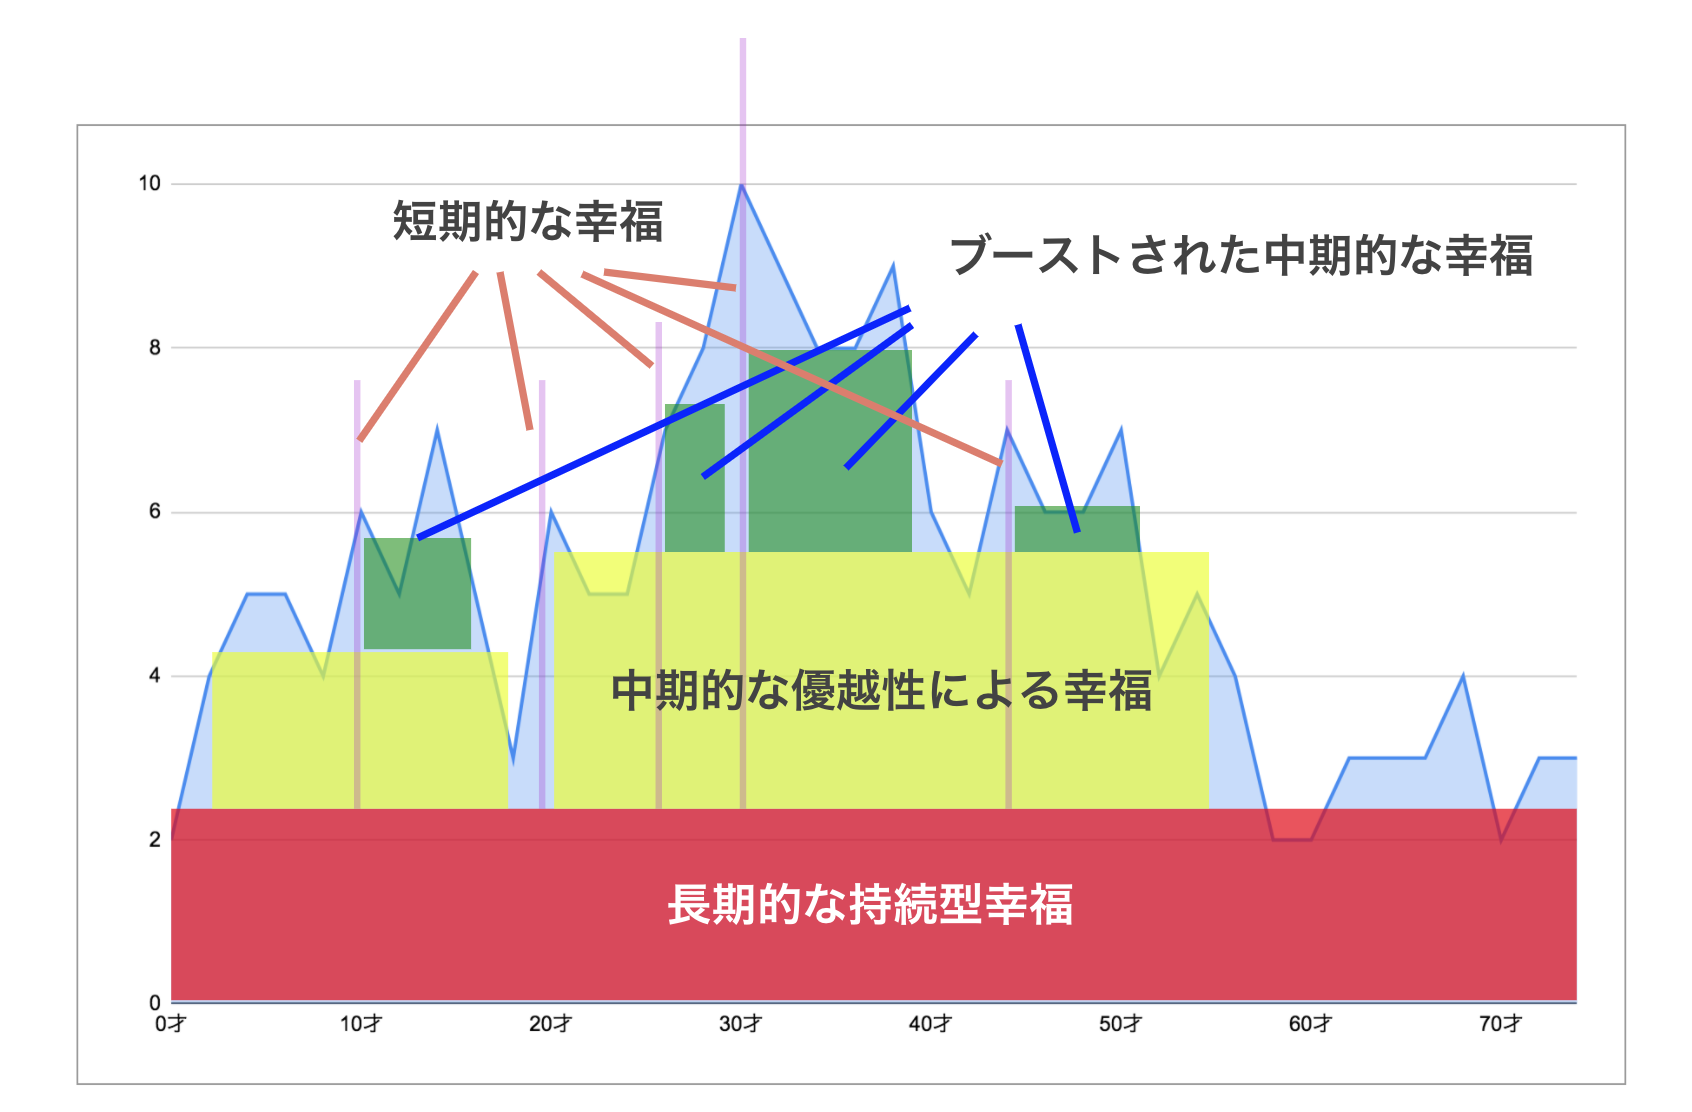
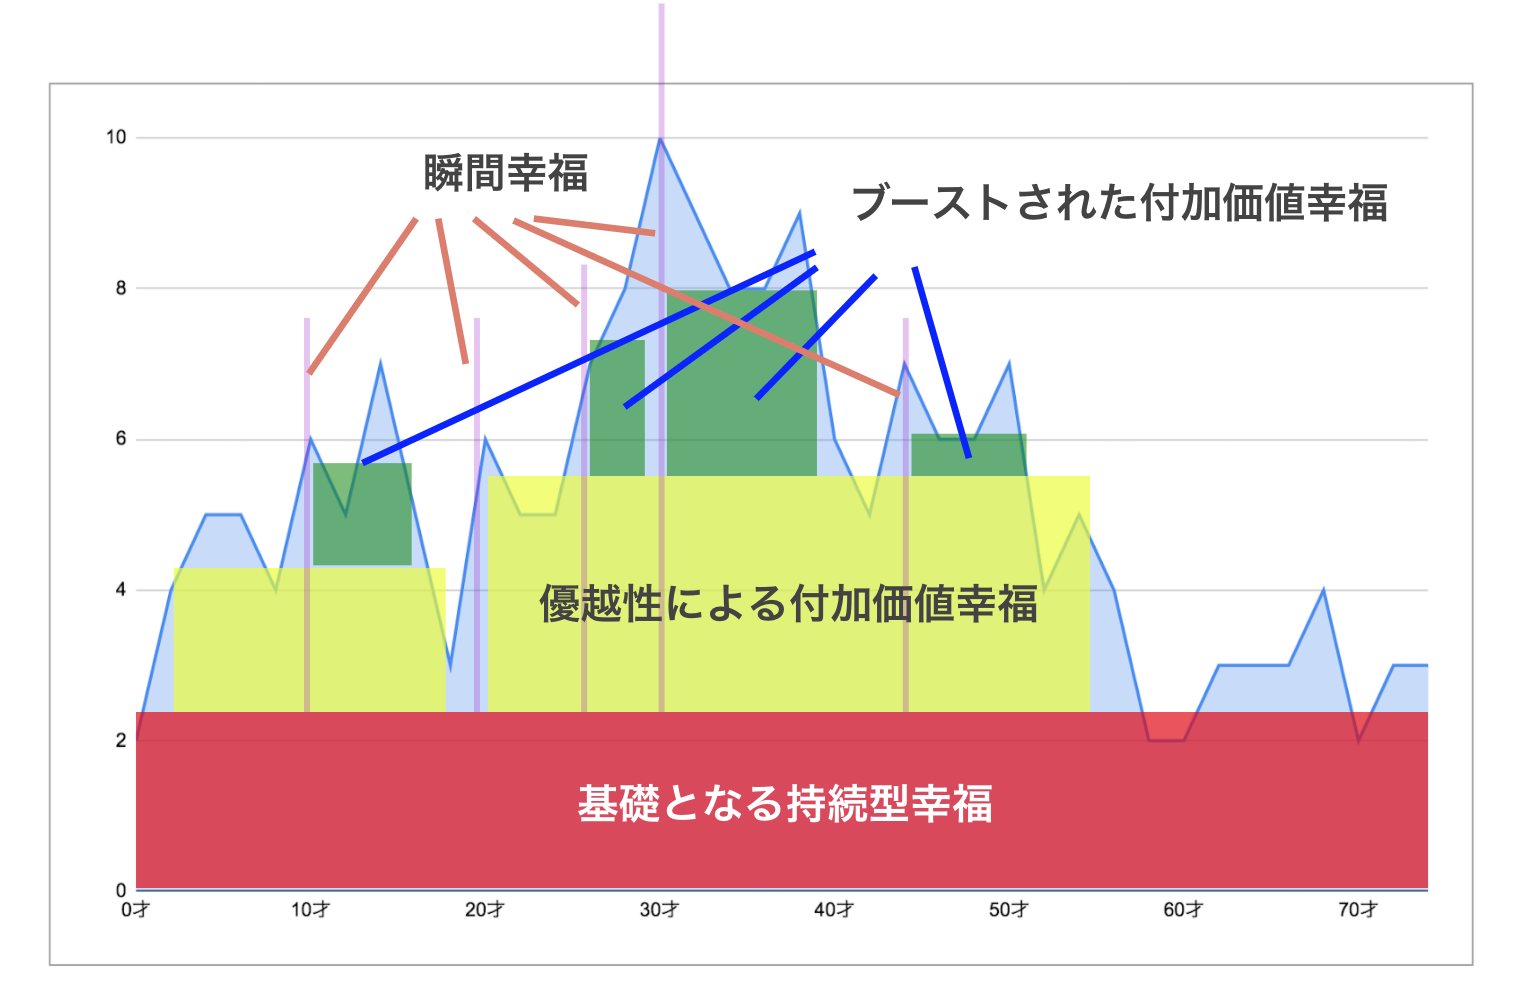
try

diff --git a/_drafts/2020-06-17-積分としての幸福の最大化.md b/_drafts/2020-06-17-積分としての幸福の最大化.md
@@ -9,38 +9,41 @@ categories: philosophy
 
 __積分としての幸福の最大化__
 
-追求すべき第一指標としての幸福さについては、[自己の幸福を第一に](/prophecy/2020/06/06/自己の幸福を第一に) の記事で記した通りですが、どのようにその幸福を最大化できるでしょうか？
+追求すべき第一指標としての幸福さについては、[自己の幸福を第一に](/prophecy/2020/06/06/自己の幸福を第一に) の記事で記しました。さて、それではどのようにその幸福を最大化できるでしょうか？
 
-幸福には瞬間的幸福と中期的幸福、そして長期的な幸福が存在します。それらは全て性質の異なるものですし、どれも人の幸福には不可欠なものです。大切なことはそれらが相互に作用しながら人生を通しての幸福度を最大化していくと言う事であり、どれか一つを追求して他を疎かにしてはいけないということです。
+幸福には**基礎幸福**と**付加価値幸福**、そして**瞬間幸福**が存在します。それらは全て性質の異なるものですし、どれも人の幸福には不可欠なものです。大切なことはそれらが相互に作用しながら人生を通しての幸福度を最大化していくと言う事であり、どれか一つを追求して他を疎かにはできません。
 
-幸福の最大化の意味とは瞬間的に多大な幸福度を得ることを意味していません。幸福の最大化とはあなたの生まれてから死ぬまでの間の幸福度を積分した総計を意味しています。そして、私はその幸福度の積分値を最大化することを目的に日々の小さな決断をしていくことを提案しています。
+幸福の最大化の意味とは瞬間的に多大な幸福度を得ることを意味していません。幸福の最大化とはあなたの生まれてから死ぬまでの間の幸福度を積分した総計を意味しています。そして、私はその幸福度の積分値を最大化することを目的に日々の小さな決断をしていくことを提案します。
 
 <img src="{{ '/img/posts/integral-happiness.png' | prepend: site.baseurl | replace: '//', '/' }}" width="100%" alt="生まれてから死ぬまでの幸福度推移">
 
-__基礎となる長期的な幸福__
+__幸福の土台となる基礎幸福__
 
-長期的な幸福度とは生活の基盤となる幸福度で、日々の衣食住の充実と健全な人間関係から培われます。
-目安となる指標は
+基礎幸福度とは生活の基盤となる幸福度で、日々の衣食住の充実と健全な人間関係から培われます。
+目安となる指標として
 
 1. 恒常的な不幸状態に陥っていない
 1. 日々の習慣に対しての納得感がある
 
-の２点に尽きると思います。
+の２点をあげます。
 
-「恒常的な不幸状態」というものは生存に直結した問題です。日本ではあまりないケースですが、世界的には現代においても未だに飢餓が蔓延していたり、中国ではネズミ族と呼ばれる地下住民が現れた時期もあり、満足に毎日の生活を送れないケースも稀ではありません。
-長期的な幸福とはそういった明日を生きる事に対する不安を払拭して安定的な毎日が健やかに行われる事で充足されます。
-ただ、現代の日本においては徐々に生活保護の増加や老後不安、老老介護、年金問題、核家族での子育て、保育園不足などの問題が蔓延しはじめており、この次元の不幸に足を突っ込みつつある状況と感じます。
+「恒常的な不幸状態」というものは生存に直結した問題です。日本ではあまりないケースですが、現代においても世界的には未だに飢餓が蔓延していたり、中国ではネズミ族と呼ばれる地下住民が現れた時期もあり、満足に毎日の生活を送れないケースも稀ではありません。
+不安状態が継続する環境では常に気を休める瞬間がなく、脳に強いストレスをかけます。
+基礎幸福とは、そういった明日を生きる事に対する不安を払拭して安定的な毎日が健やかに行われる事で充足されます。
 
-「日々の習慣に対しての納得感がある」というのは、自分の行動に対する周りの反応に一定の予測がたち、確かにそのような反応が期待できる場合に満たされます。人生をコントロールできている感覚と言い換えると良いかもしれません。何かが満たされると幸福になるという絶対的に評価による物はなく、重要なのは「**納得感**」になります。
-そこはかとない物であり実感する事が難しいかもしれませんが、実はこれが人生の全てのにおける土台となります。
-納得感は相対的評価から行われる物であり、１億総中流と言われた頃の日本では実は他の国に比べて高かったと言えます。
+「日々の習慣に対しての納得感がある」というのは、自分の行動に対する周りの反応に一定の予測がたち、確かな反応が期待できる場合に満たされます。人生をコントロールできている感覚と言い換えると良いかもしれません。何かが満たされると幸福になるという絶対的に評価による物はなく、重要なのは「**納得感**」になります。
+そこはかとない物であり実感する事が難しいかもしれませんが、これが人生の全てのにおける土台となります。
+
+納得感を蝕むのは
 
 * こんなに働いているのにまともに食べていけないのはおかしい
 * 自分だけが事故にあった
 * 努力していないのに自分より優れているあいつは許せない
 
-といった類の不満は長期的な幸福度を蝕む要因となります。
+といった類の不満で、生活の主要なコミュニティにおいてこの状況に陥入れば基礎幸福度を著しく下げる要因となります。
 
+納得感は相対的評価から行われる物であり、１億総中流と言われた頃の日本では他の国に比べて基礎幸福度が高かったと言えるかもしれません。
+ただ、現代の日本においては徐々に生活保護の増加や老後不安、老老介護、年金問題、核家族での子育て、保育園不足などの問題が蔓延しはじめており、この次元の不幸に足を踏み入れつつあると感じます。
 今の日本では１億総下流になりつつあり、昭和日本における「普通」を現代の一般的家庭が満たす事は現実的ではなくなっています。
 
 * 一戸建てを買う
@@ -49,25 +52,24 @@ __基礎となる長期的な幸福__
 * 預けずに子供を親の手で育てる（専業主婦）
 * 退職金と年金で老後を平穏に暮らす
 
-など、全部満たしている家庭は現代ではかなりの高所得であるか、優位な控除や役得がある公務員などの場合に限られます。
+など、現代において全てを満たしている家庭はかなりの高所得であるか、優位な控除や役得がある公務員などの場合に限られます。
 
-※ 余談ですが、日本人が一斉に貧しくなっているのであれば、相対的な不満は発生しづらいのかと思うかもしれませんが、残念ながらそんな事はありません。現代はグローバル化された情報社会であり、比較対象は地元地域に限られなくなっています。今では「親の時代の普通との比較」「他の先進国との比較」をする事によって、日本人全体が「あれ、何かおかしくないか？」と感じ始めていると思います。そう言った意味では日本人は傾向として全体的に不幸になっていると思わざる終えません。
+※ 余談ですが、日本人が一斉に貧しくなっているのであれば、相対的な不満は発生しづらいのかと思うかもしれませんが、残念ながらそんな事はありません。現代はグローバル化された情報社会であり、比較対象は地元地域に限られなくなっています。
+今では「親の時代の普通との比較」「他の先進国との比較」をする事によって、日本人全体が「あれ、何かおかしくないか？」と感じ始めています。その意味で日本人はみな日々仲良くそろって幸福度を失っています。
 
 
-__積分値を押し上げる中期的な幸福__
+__積分値を押し上げる付加価値幸福__
 
-中期的な幸福度は生活基盤の安全確保が成り立った土台の上にのみ成り立ち、季節性の活動成果や充足感、又は他者との比較による納得感を超えた優越感などがその基礎となります。
+付加価値幸福度は生活基盤の安全確保が成り立った土台の上にのみ成り立ち、季節性の活動成果や充足感、又は他者との比較による納得感を超えた優越感などがその基礎となります。
 熱中する趣味や活動がこの幸福感をサポートしてくれる例も少なくありません。
 
-持続期間は人によってまちまちで、中期的といいつつも場合によっては人生の殆どの期間がこの中期的幸福度によって押し上げられている人もいる。
+__付加価値幸福を持続する為のスパイスになる瞬間幸福__
 
-__中期的幸福を持続する為のスパイスになる短期的幸福__
+瞬間幸福は瞬間的に大きな幸福感を与えてくれるタイプの感覚で、幸福というよりはむしろ快楽の類の物になります。食欲や性欲だけでなく、相手を論破したり、賞を取ったりする事もこれに当たります。行動に対して最も即効性を伴って効果が現れるため、幸福の追求を議題にした時に真っ先に議題に上がります。
 
-短期的な幸福は瞬間的に大きな幸福感を与えてくれるタイプの感覚で、幸福というよりはむしろ快楽の類の物になります。食欲や性欲だけでなく、相手を論破したり、賞を取ったりする事もこれに当たります。行動に対して最も即効性を伴って効果が現れるため、幸福の追求を議題にした時に真っ先に議題に上がります。
+しかし、実は瞬間幸福それ単体では積分としての幸福の最大化には殆ど寄与しません。瞬間的な幸福度は殆ど持続しないため、普段の１０倍の幸せを１時間味わっても、たかだか１０時間分の貯蓄を得られるにとどまります。それどころか、この類の行動は中毒に陥りやすいため、一度行うとなんども繰り返し衝動にかられその度に幸福度は徐々に鈍化していく反面、自身の行動は支配される形になり幸福度を失うきっかけにもなりかねません。
 
-しかし、実は短期的な幸福それ単体では積分としての幸福の最大化には殆ど寄与しません。瞬間的な幸福度は殆ど持続しないため、普段の１０倍の幸せを１時間味わっても、たかだか１０時間分の貯蓄を得られるにとどまります。それどころか、この類の行動は中毒に陥りやすいため、一度行うとなんども繰り返し衝動にかられその度に幸福度は徐々に鈍化していく反面、自身の行動は支配される形になり幸福度を失うきっかけにもなりかねません。
-
-短期的な幸福の本当の価値はそれ自体にはありません。むしろその前後の中期的幸福度をブーストしてくれる事にあります。例えば大きな大会に勝つという瞬間的幸福へのプロセスとしての努力が実はそれ自体が中期的幸福度を高めています。また、優勝という大きな達成が、自尊心を構築したり評判をあげる事で、それ以後のチャンスに恵まれ新しい中期的幸福を得られるきっかけを与えてくれるのです。美味しい食事なども、それを探すプロセス自体に幸福があり、味の良し悪しよりもそういった機会が得られた事に対する満足感の方が大きいのです。
+瞬間幸福の本当の価値はそれ自体にはありません。むしろその前後の付加価値幸福度をブーストしてくれる事にあります。例えば大きな大会に勝つという瞬間幸福へのプロセスとしての努力が実はそれ自体が付加価値幸福度を高めています。また、優勝という大きな達成が、自尊心を構築したり評判をあげる事で、それ以後のチャンスに恵まれ新しい付加価値幸福を得られるきっかけを与えてくれるのです。美味しい食事なども、それを探すプロセス自体に幸福があり、味の良し悪しよりもそういった機会が得られた事に対する満足感の方が大きいのです。
 
 <img src="{{ '/img/posts/integral-happiness-by-types.png' | prepend: site.baseurl | replace: '//', '/' }}" width="100%" alt="生まれてから死ぬまでの幸福度推移">
 
